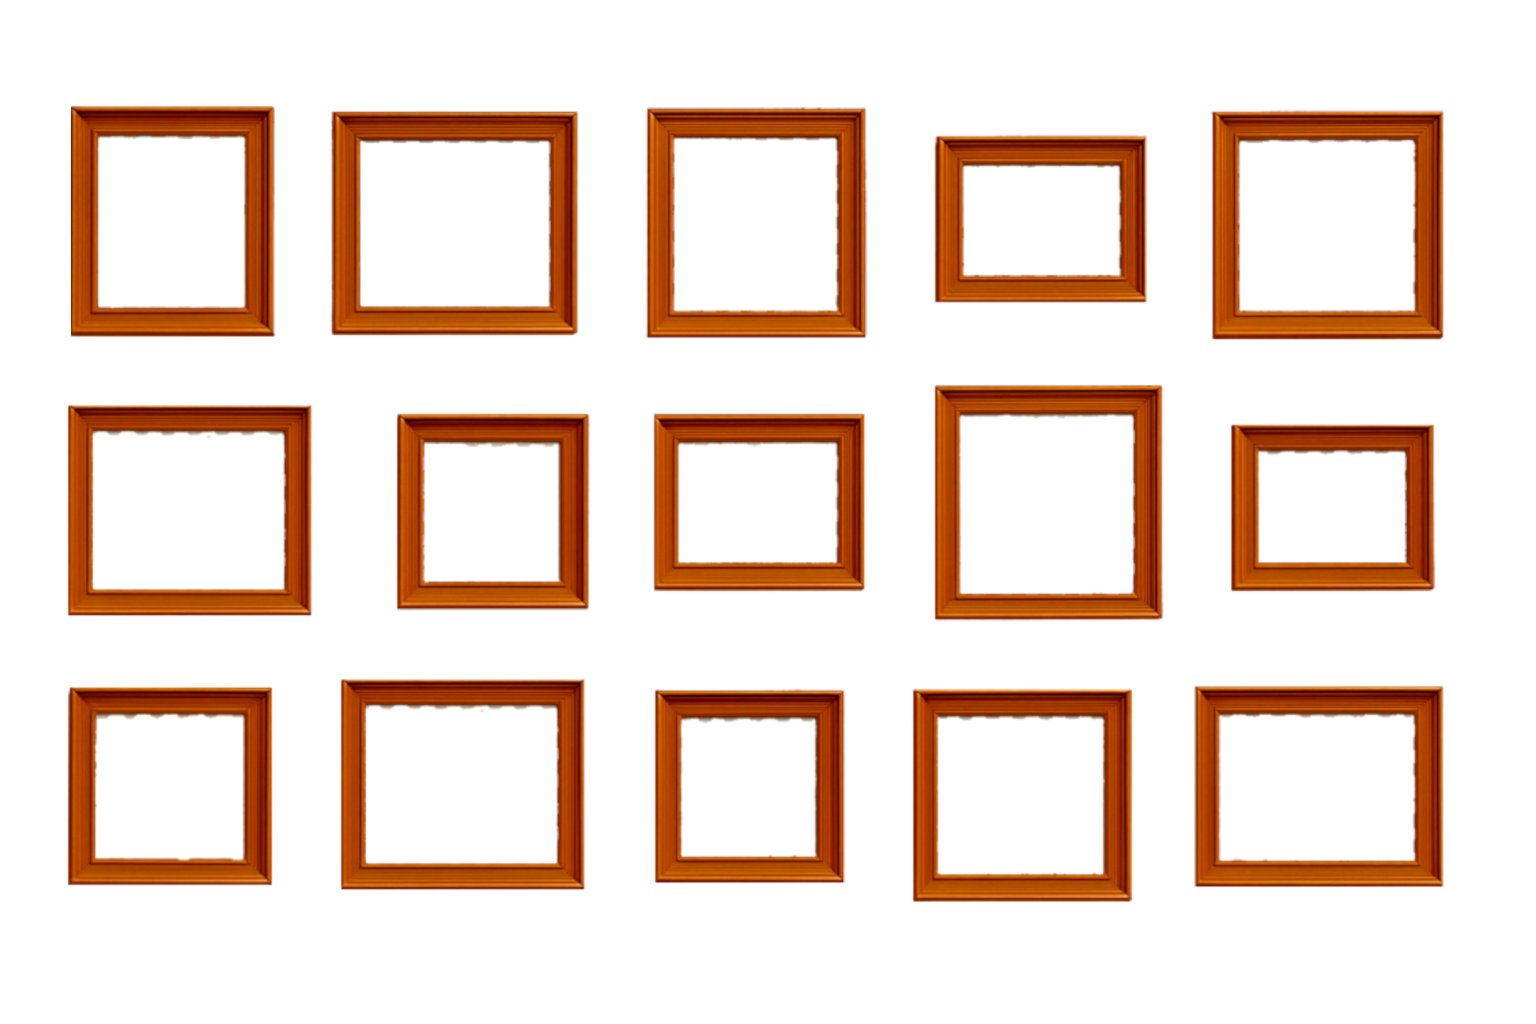
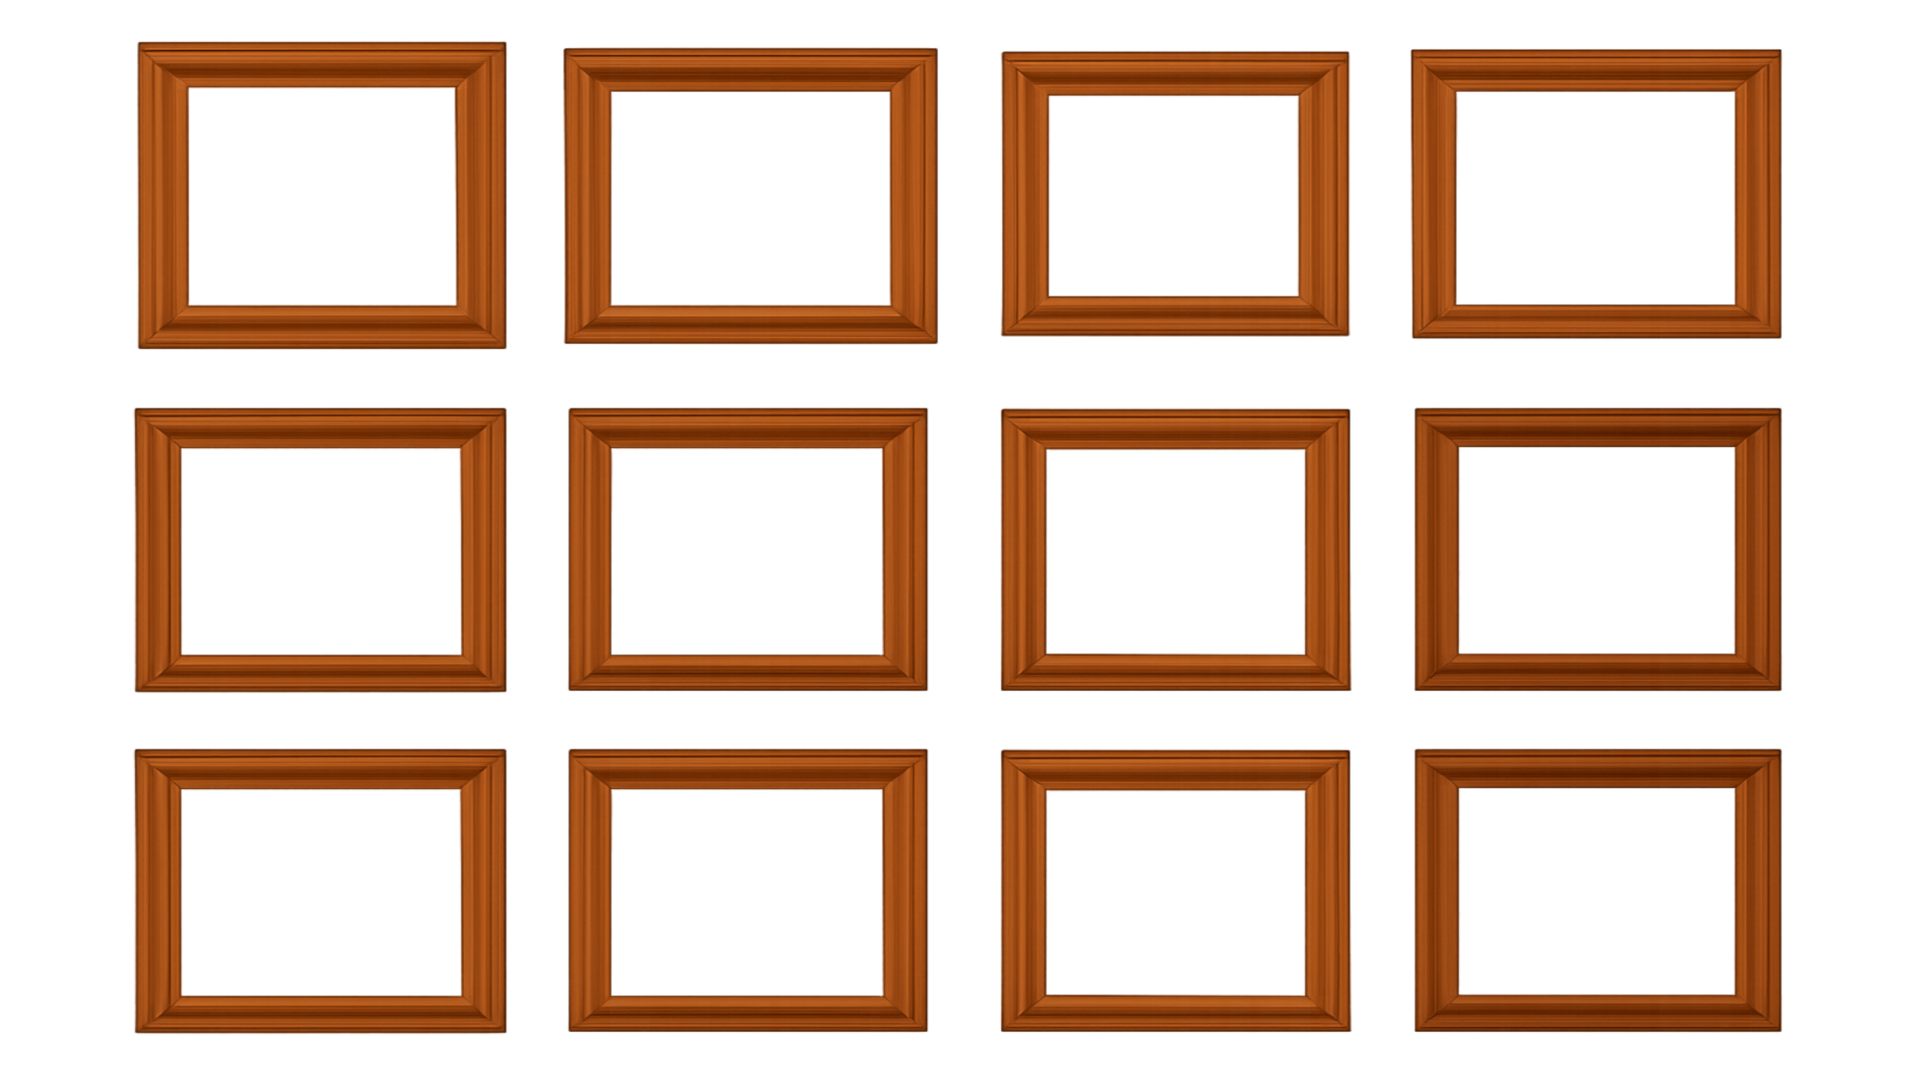
fixed frame sizes

diff --git a/family-gallery/src/carouselFrameCoordinates.ts b/family-gallery/src/carouselFrameCoordinates.ts
@@ -1,19 +1,19 @@
 export const carouselFrameCoordinates = {
-  frame_1:   { left: "6.2%",  top: "13.%",  width: "9.9%", height: "17.2%" },
-  frame_2:   { left: "23.4%", top: "13.%",  width: "12.6%", height: "17.2%" },
-  frame_3:   { left: "43.7%", top: "13.%",  width: "10.9%", height: "17.6%" },
-  frame_4:   { left: "62.5%", top: "15.7%",  width: "10.6%", height: "11.5%" },
-  frame_5:   { left: "80.6%", top: "13.%",  width: "11.6%", height: "17.6%" },
+  // Row 1
+  frame_1: { left: "9.7%",  top: "7.9.%", width: "14.2%", height: "20.5%" },
+  frame_2: { left: "31.7%", top: "8.3%", width: "14.7%", height: "20.5%" },
+  frame_3: { left: "54.5%", top: "8.4%", width: "13.2%", height: "19.%" },
+  frame_4: { left: "75.5%", top: "8.4%", width: "14.9%", height: "20.%" },
 
-  frame_6:   { left: "5.95%",  top: "41.8%", width: "12.65%", height: "15.9%" },
-  frame_7:   { left: "27.48%", top: "43.%", width: "9%", height: "14.%" },
-  frame_8:   { left: "44.1%", top: "43.%", width: "10.5%", height: "12.2%" },
-  frame_9:   { left: "62.4%", top: "40.2%", width: "11.6%", height: "17.9%" },
-  frame_10:  { left: "81.8%", top: "43.7%", width: "9.9%", height: "11.8%" },
+  // Row 2
+  frame_5: { left: "9.3%",  top: "41.4%",   width: "14.8%", height: "20.%" },
+  frame_6: { left: "31.7%", top: "41.4%",   width: "14.6%", height: "20.%" },
+  frame_7: { left: "54.3", top: "41.4%",   width: "13.7%", height: "19.5%" },
+  frame_8: { left: "75.8%", top: "41.4%",   width: "14.7%", height: "20.%" },
 
-  frame_11:  { left: "6.1%", top: "69.4%", width: "9.9%", height: "14.8%" },
-  frame_12:  { left: "23.7%", top: "68.6%", width: "12.8%", height: "15.9%" },
-  frame_13:  { left: "44.3%", top: "69.8%", width: "9%", height: "14.%" },
-  frame_14:  { left: "60.95%", top: "69.8%", width: "11%", height: "15.8%" },
-  frame_15:  { left: "79.3%", top: "69.4%", width: "12.9%", height: "14.8%" }
+  // Row 3
+  frame_9:  { left: "9.3%",  top: "72.8%", width: "14.8%", height: "20.%" },
+  frame_10: { left: "31.7%", top: "72.8%", width: "14.4%", height: "19.7%" },
+  frame_11: { left: "54.5%", top: "72.8%", width: "13.8%", height: "19.7%" },
+  frame_12: { left: "75.7%", top: "72.8%", width: "14.8%", height: "19.5%" }
 };

diff --git a/family-gallery/src/App.tsx b/family-gallery/src/App.tsx
@@ -21,8 +21,8 @@ export const IS_RESPONSIVE_DEV = true;
 console.log("Loaded backend URL:", import.meta.env.VITE_BACKEND_URL);
 
 export const GLOBAL_BACKEND_URL = import.meta.env.VITE_BACKEND_URL || "http://localhost:8001";
-export const BASE_IMAGE_WIDTH = 1536;
-export const BASE_IMAGE_HEIGHT = 1024;
+export const BASE_IMAGE_WIDTH = 1920;
+export const BASE_IMAGE_HEIGHT = 1080;
 
 // === 📦 Wrapper for PhotosUpload ===
 const UploadPhotosWrapper: React.FC = () => {

diff --git a/server/photos_videos_server.py b/server/photos_videos_server.py
@@ -37,8 +37,8 @@ CORS(app)
 s3 = boto3.client("s3")
 S3_BUCKET = "photo-video-repository"
 S3_ORIGINALS_PREFIX = "photos/originals"
-S3_CACHE_PREFIX_ROTATED = "cache-image/600px/rotated"
-S3_CACHE_PREFIX_UNROTATED = "cache-image/600px/unrotated"
+S3_CACHE_PREFIX_ROTATED = "cache-image/1200px/rotated"
+S3_CACHE_PREFIX_UNROTATED = "cache-image/1200px/unrotated"
 
 # --- IN-MEMORY INDEX ---
 photo_index = []
@@ -129,7 +129,7 @@ def serve_image(filename):
         if angle:
             img = img.rotate(-angle, expand=True)
 
-        width = 600
+        width = 1200
         ratio = width / float(img.size[0])
         height = int((float(img.size[1]) * float(ratio)))
         img = img.resize((width, height), Image.LANCZOS)
@@ -258,9 +258,9 @@ def rotate_photo():
     image_entry["angle"] = new_angle
 
     rotated_img = img.rotate(-new_angle, expand=True)
-    w_percent = 600 / float(rotated_img.size[0])
+    w_percent = 1200 / float(rotated_img.size[0])
     h_size = int(float(rotated_img.size[1]) * w_percent)
-    resized_img = rotated_img.resize((600, h_size), Image.LANCZOS)
+    resized_img = rotated_img.resize((1200, h_size), Image.LANCZOS)
 
     out_buffer = BytesIO()
     resized_img.save(out_buffer, "WEBP")
